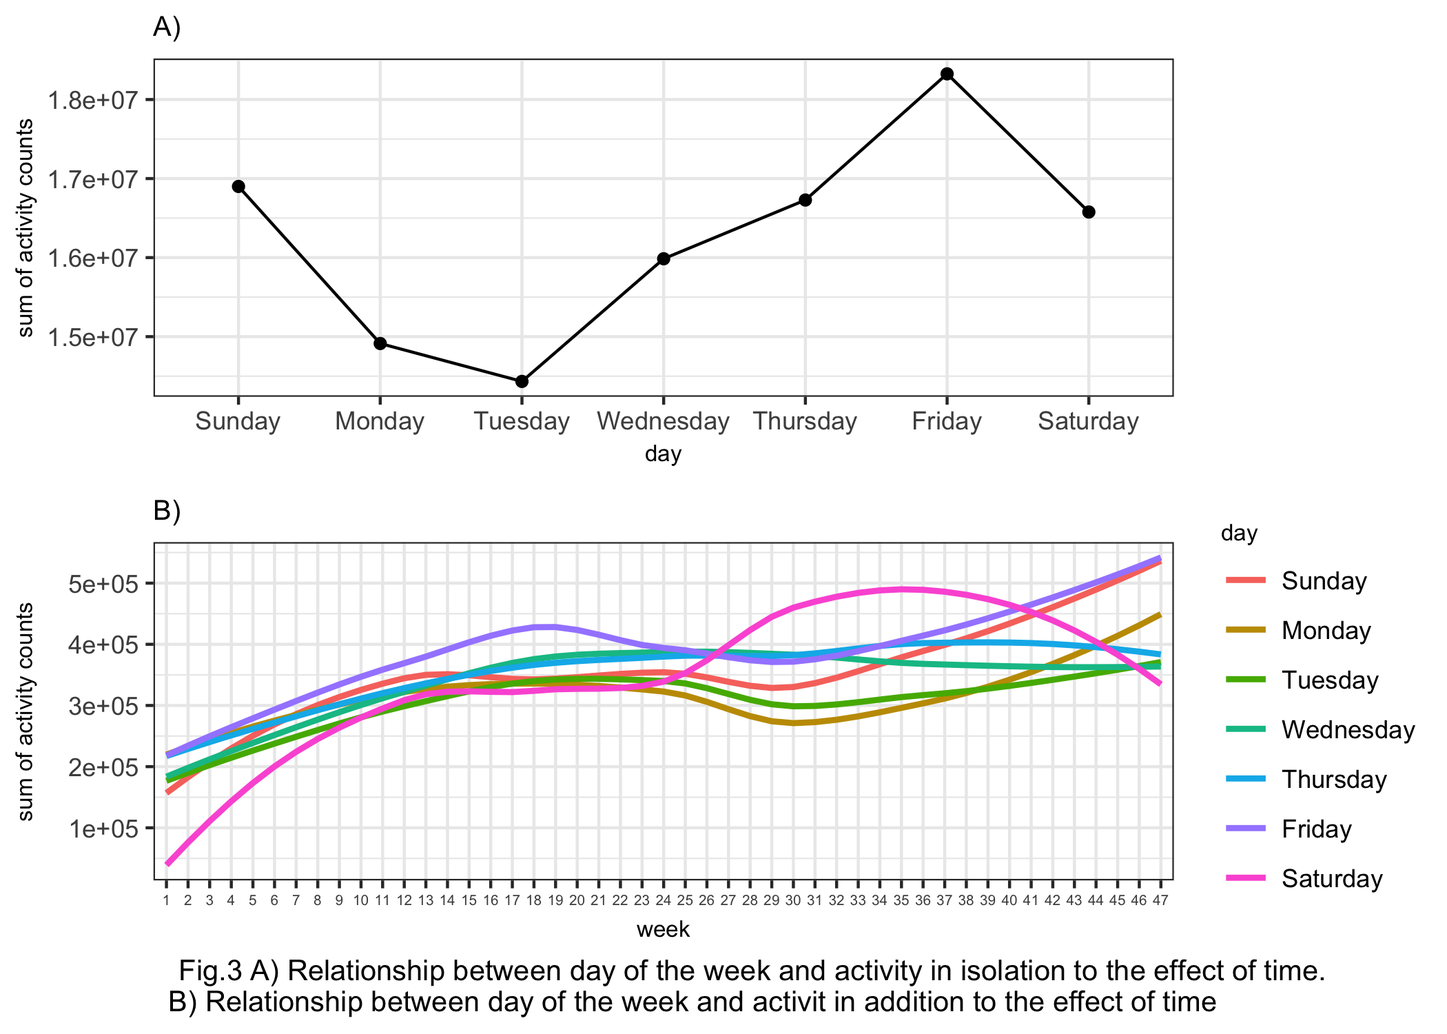
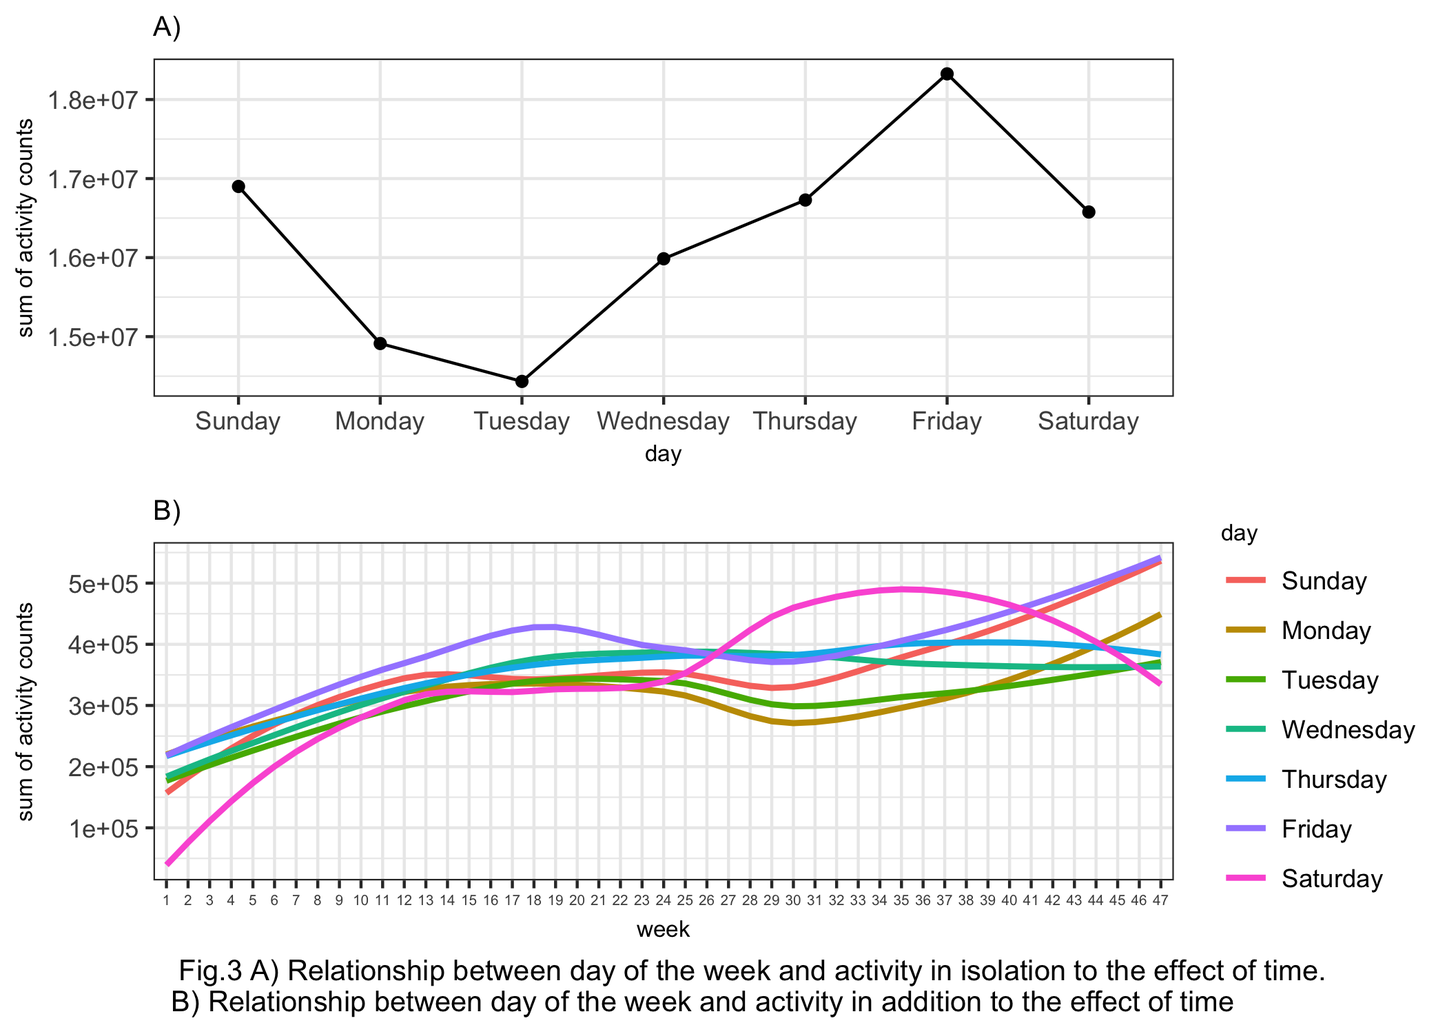
trying the plot_ly, but it doesn't seem to work in md file

Changed region(s): [[0.1238, 0.9507, 0.8667, 0.9813]]

diff --git a/p8105_mtp_gw2383.md b/p8105_mtp_gw2383.md
@@ -115,7 +115,7 @@ cross_min %>%
   labs(
     y = "sum of activity counts", 
     title = "B)", 
-    caption = "Fig.3 A) Relationship between day of the week and activity in isolation to the effect of time.\n B) Relationship between day of the week and activit in addition to the effect of time"
+    caption = "Fig.3 A) Relationship between day of the week and activity in isolation to the effect of time.\n B) Relationship between day of the week and activity in addition to the effect of time"
   ) +
   theme(
     axis.text.x = element_text(size = 5),
@@ -166,7 +166,7 @@ activity_df %>%
   geom_vline(xintercept = 7*60, col = "red") + # an vertical line at 7 o'clock
   geom_vline(xintercept = 23*60, col = "red") + # an vertical line at 23 o'clock
   labs(
-    caption = "Fig.4 24-hour activity \"profiles\" for each day"
+    caption = "Fig.4 heatmap for 24-hour activity \"profiles\" for each day"
   ) +
   theme(
     axis.text.y = element_text(size = 7),
@@ -178,7 +178,76 @@ activity_df %>%
 
 Here we can see that in general, the participant's avtive time is around `7:00 - 23:00`, and his inactive time is around `23:00 - 7:00`.
 
-day of week on 24-hour activity profile (day of the week effect)
+24-hour activity profile (time effect)
+
+``` r
+# activity_df %>% 
+#   group_by(week, act_time) %>% 
+#   summarise(sum_byweekday = sum(count)) %>% 
+#   ggplot(aes(x = act_time, y = sum_byweekday, group = week, color = week)) +
+#   geom_smooth(se = FALSE) +
+#   scale_x_discrete( # rename the x axis label
+#     breaks = paste("activity", (0:23)*60 + 1, sep = "_"), 
+#     labels = c(0:23), 
+#     name = "time/hour"
+#     ) +
+#   labs(
+#     y = "sum of activity counts",
+#     caption = "Fig.5 A) relationship between time and 24-hour activity profile"
+#   ) +
+#   theme(
+#     axis.text.y = element_text(size = 7),
+#     plot.caption = element_text(hjust = 0, size = 10)
+#   )
+# 
+# # heatmap
+# activity_df %>% 
+#   group_by(week, act_time) %>% 
+#   summarise(sum_byweek = mean(count)) %>% 
+#   mutate(sum_byweek = log10(sum_byweek)) %>% 
+#   ggplot(aes(x = act_time, y = week, fill = sum_byweek)) +
+#   geom_tile() +
+#   scale_fill_gradient(low = "white", high = "steelblue") +
+#   guides(fill = guide_legend(title = "log10(count)")) +
+#   scale_x_discrete( # rename the x axis label
+#     breaks = paste("activity", (0:23)*60 + 1, sep = "_"), 
+#     labels = c(0:23), 
+#     name = "time/hour"
+#     ) +
+#   labs(
+#     caption = "Fig.4 heatmap for 24-hour activity \"profiles\" for each day"
+#   ) +
+#   theme(
+#     axis.text.y = element_text(size = 7),
+#     plot.caption = element_text(hjust = 0, size = 10)
+#   )
+
+# 3D plot 
+count_time = activity_df %>% 
+  group_by(week, act_time) %>% 
+  summarise(sum_byweek = mean(count)) %>% 
+  mutate(hour = 0)
+
+for (i in c(0:23)) { # aggregate each hour's count
+  count_time$hour = count_time$hour + ifelse(count_time$act_time %in% paste("activity", (i*60+1):(i*60+60), sep = "_"), i, 0)
+}
+
+count_time = count_time %>% 
+  group_by(week, hour) %>% 
+  summarise(sum_byhour = sum(sum_byweek)) %>% 
+  spread(key = hour, value = sum_byhour) %>% 
+  group_by() %>% 
+  select(2:25) %>% 
+  as.matrix()
+plot_ly(z = ~count_time) %>% # use plot_ly
+  add_surface()
+```
+
+<!--html_preserve-->
+
+<script type="application/json" data-for="htmlwidget-9347caebb6c5d7c4181d">{"x":{"visdat":{"3ce424c55fd5":["function () ","plotlyVisDat"]},"cur_data":"3ce424c55fd5","attrs":{"3ce424c55fd5":{"z":{},"alpha_stroke":1,"sizes":[10,100],"spans":[1,20],"type":"surface","inherit":true}},"layout":{"margin":{"b":40,"l":60,"t":25,"r":10},"scene":{"zaxis":{"title":"count_time"}},"hovermode":"closest","showlegend":false,"legend":{"yanchor":"top","y":0.5}},"source":"A","config":{"modeBarButtonsToAdd":[{"name":"Collaborate","icon":{"width":1000,"ascent":500,"descent":-50,"path":"M487 375c7-10 9-23 5-36l-79-259c-3-12-11-23-22-31-11-8-22-12-35-12l-263 0c-15 0-29 5-43 15-13 10-23 23-28 37-5 13-5 25-1 37 0 0 0 3 1 7 1 5 1 8 1 11 0 2 0 4-1 6 0 3-1 5-1 6 1 2 2 4 3 6 1 2 2 4 4 6 2 3 4 5 5 7 5 7 9 16 13 26 4 10 7 19 9 26 0 2 0 5 0 9-1 4-1 6 0 8 0 2 2 5 4 8 3 3 5 5 5 7 4 6 8 15 12 26 4 11 7 19 7 26 1 1 0 4 0 9-1 4-1 7 0 8 1 2 3 5 6 8 4 4 6 6 6 7 4 5 8 13 13 24 4 11 7 20 7 28 1 1 0 4 0 7-1 3-1 6-1 7 0 2 1 4 3 6 1 1 3 4 5 6 2 3 3 5 5 6 1 2 3 5 4 9 2 3 3 7 5 10 1 3 2 6 4 10 2 4 4 7 6 9 2 3 4 5 7 7 3 2 7 3 11 3 3 0 8 0 13-1l0-1c7 2 12 2 14 2l218 0c14 0 25-5 32-16 8-10 10-23 6-37l-79-259c-7-22-13-37-20-43-7-7-19-10-37-10l-248 0c-5 0-9-2-11-5-2-3-2-7 0-12 4-13 18-20 41-20l264 0c5 0 10 2 16 5 5 3 8 6 10 11l85 282c2 5 2 10 2 17 7-3 13-7 17-13z m-304 0c-1-3-1-5 0-7 1-1 3-2 6-2l174 0c2 0 4 1 7 2 2 2 4 4 5 7l6 18c0 3 0 5-1 7-1 1-3 2-6 2l-173 0c-3 0-5-1-8-2-2-2-4-4-4-7z m-24-73c-1-3-1-5 0-7 2-2 3-2 6-2l174 0c2 0 5 0 7 2 3 2 4 4 5 7l6 18c1 2 0 5-1 6-1 2-3 3-5 3l-174 0c-3 0-5-1-7-3-3-1-4-4-5-6z"},"click":"function(gd) { \n        // is this being viewed in RStudio?\n        if (location.search == '?viewer_pane=1') {\n          alert('To learn about plotly for collaboration, visit:\\n https://cpsievert.github.io/plotly_book/plot-ly-for-collaboration.html');\n        } else {\n          window.open('https://cpsievert.github.io/plotly_book/plot-ly-for-collaboration.html', '_blank');\n        }\n      }"}],"cloud":false},"data":[{"colorbar":{"title":"count_time","ticklen":2,"len":0.5,"lenmode":"fraction","y":1,"yanchor":"top"},"colorscale":[["0","rgba(68,1,84,1)"],["0.0170893419249095","rgba(69,8,89,1)"],["0.0296106510601956","rgba(70,14,93,1)"],["0.0447516894205363","rgba(70,20,98,1)"],["0.062285029657417","rgba(71,26,104,1)"],["0.0811666494077981","rgba(72,31,110,1)"],["0.109334653915147","rgba(72,40,119,1)"],["0.139261810355098","rgba(70,49,124,1)"],["0.17163889102305","rgba(68,59,129,1)"],["0.226326998820249","rgba(62,75,137,1)"],["0.278747986001388","rgba(57,89,140,1)"],["0.322974532590868","rgba(51,101,142,1)"],["0.363087622718907","rgba(47,111,142,1)"],["0.399017231155388","rgba(44,119,142,1)"],["0.424089134659053","rgba(41,125,142,1)"],["0.448617147075624","rgba(38,131,142,1)"],["0.473596714802208","rgba(38,137,141,1)"],["0.494571946655621","rgba(37,143,140,1)"],["0.513583843026693","rgba(36,147,139,1)"],["0.536795226961867","rgba(33,153,138,1)"],["0.561658143012552","rgba(33,159,136,1)"],["0.592916041728604","rgba(41,166,132,1)"],["0.628719289266184","rgba(48,174,127,1)"],["0.701596668036241","rgba(75,190,112,1)"],["1","rgba(253,231,37,1)"]],"showscale":true,"z":[[974.428571428571,754.428571428572,518.571428571429,1183.42857142857,5981.85714285714,8058.57142857143,3324,7197.85714285714,22265.4285714286,12876.8571428571,11277.5714285714,15376.1428571429,17658.2857142857,16581.4285714286,18881.1428571429,22832.5714285714,17167.1428571429,19356.7142857143,21396.1428571428,21858.4285714286,23608.7142857143,17520,8952,1589],[2872.85714285714,1895.28571428572,2399.28571428571,1731.42857142857,671.714285714286,1763.85714285714,6034.14285714286,9771,21522.5714285714,25414.7142857143,14714.2857142857,12855.5714285714,18505.4285714286,14874.1428571429,16755.4285714286,14868.8571428571,15277.5714285714,14145,14874.2857142857,11382.2857142857,2439.28571428571,1813.28571428571,6348.57142857142,2823.85714285714],[60,60,60,60,60,60,60,60,60,181.142857142857,60,60,95.7142857142856,60,60,63,60,60,60,63,60,60,60,60],[216.571428571429,970.857142857143,222.285714285714,215.714285714286,884.428571428572,831.428571428571,883.285714285714,134.571428571428,1765.14285714286,4935.42857142857,4501.14285714286,9220.14285714284,2386.57142857143,3848.28571428572,7322.42857142857,5998.28571428571,7741,4952.42857142857,4243.71428571429,2042.57142857143,3205.14285714286,6672.57142857143,3466.42857142857,413.714285714286],[2707.85714285714,519.142857142857,1194,1041.85714285714,6342.71428571428,5551.71428571429,12967.5714285714,11422.5714285714,14000.1371942011,18227,15338,17360.1428571429,14974.1428571429,23280.8571428571,16269.8571428571,14799.4285714286,8272.42857142858,20438.4285714286,15201.1428571429,10547.4285714286,15430.2857142857,12288.5714285714,13747.8571428571,8289.42857142857],[2134.57142857143,2774.14285714286,721.714285714286,1417.57142857143,5084.14285714286,7571.71428571429,8961.57142857143,15938.4285714286,24479.2857142857,18767,17237.2857142857,21900.8571428571,23097.5714285714,19493.2857142857,16102,28430.2857142857,20643.4285714286,18493.8571428571,16725.8571428571,13739.4285714286,18815.1428571428,16491.4285714286,7875.71428571429,3895.57142857143],[6102.28571428571,903.857142857143,1648,3529.71428571429,1897.57142857143,2757.71428571429,5393,6292,15872.5714285714,16784.2857142857,22276.5714285714,22080.5714285714,21153,18335.1428571429,18254.5714285714,23135.1428571429,21079.1428571429,19175.8571428571,18386.8571428571,24840.1428571428,15219.7142857143,16115.2857142857,15094.4285714286,8928.99999999999],[1805.28571428572,796.000000000001,1567.85714285714,2467.85714285714,1980.71428571428,5144.14285714285,3766.14285714286,7519.28571428571,12510.2857142857,10891.4285714286,24193.8571428571,18621,20955.5714285714,19245.7142857143,21579.8571428571,25999.4285714286,18191.7142857143,16322.5714285714,22934.5714285714,19632,17619.8571428571,14743.5714285714,6130.28571428572,6835.85714285715],[3400.71428571429,3282.85714285714,2208.42857142857,1481.42857142857,2338.85714285714,3219,5764.28571428571,20000.8571428571,18315.8287526427,22430.4285714286,28326.4285714286,26381.5714285714,23930.7142857143,28273.4285714286,31823.5714285714,26917.7142857143,20952.1428571428,20003.1428571429,18182.4285714286,20194.1428571429,20888.5714285714,14032.1428571429,8174.14285714286,8084.85714285714],[3159.14285714286,2717.14285714286,8452.14285714286,5543.71428571429,2417.28571428572,2706.85714285714,4240,12442.2857142857,23011.5714285714,22966.5714285714,22767.7142857143,25536.4285714286,23551.8571428571,26113.5714285714,23229.5714285714,16136.1428571429,11865,14885.7142857143,21497.1428571429,29414,26851.7142857143,16710.4285714286,5819.42857142857,3103.42857142857],[1389.28571428571,833.714285714285,1518.85714285714,6053.57142857143,5403.14285714286,10609.5714285714,11884.2857142857,11230.2857142857,14065.7142857143,29791.7142857143,16229.2857142857,21479.5714285714,24562.4285714286,14460.2857142857,21910.7142857143,31464.5714285714,23479.1428571429,25293.8571428571,25635.5714285714,22664.8571428571,17065.4285714286,12875.8571428571,7714.28571428571,1830],[397.857142857143,684.285714285715,581,2213.42857142857,848.857142857144,2073.71428571428,3604,2826.71428571429,7932.14285714286,4592,5887.28571428571,9492.85714285714,6175.85714285714,6989.14285714285,6918.42857142857,5199.85714285714,5869.28571428571,6898.57142857142,6594.28571428571,5132.71428571429,6166.71428571428,4590.85714285714,2681,804.857142857143],[713.285714285715,1292,655.142857142858,2397.14285714286,1156.42857142857,2898.28571428571,8823.85714285714,14793.8571428571,9570.57142857143,15092,16108.1428571429,22476.1428571429,26541.4285714286,15100.7142857143,19204.7142857143,19063,13500.8571428571,11310.8571428571,14956.2857142857,23093.4285714286,20848.5714285714,12945.5714285714,10021.1428571428,3178],[4526.14285714286,1567,1089.14285714286,4391.71428571428,8638.42857142857,11477.4285714286,11719.4285714286,21145.2857142857,21334.5714285714,14380.1428571429,23326.5714285714,19656,23405.2857142857,18361.8571428571,23288.4285714286,21197.1428571429,20603.5714285714,20592.8571428571,38891.8571428571,34132.8571428571,25351.8571428571,13699.8571428572,6154.42857142857,4555.71428571429],[2984.28571428571,3950.57142857143,5218.28571428571,7913.28571428571,6892.14285714286,13174.4285714286,12172.7142857143,16208.8571428571,12183.7142857143,15699.1428571429,15524.1428571429,13639,17809.8571428571,14345.7142857143,21180.8571428571,24804.5714285714,19704.5714285714,19373.8571428571,27906.8571428571,26940.5714285714,23346.8571428571,13702.4285714286,3489.85714285714,678.714285714286],[2166.01587301587,1255.00634920635,2420.95873015873,4958.33968253968,4346.65714285714,4251.70476190476,5921.45714285714,12364.1968253968,18203.5756407787,26166.4463768116,21679,27028.5015873016,23741.7841269841,17121.8888888889,19566.7251803752,19829.7301587302,20115.1873015873,21098.726984127,17734.1523809524,20437.4761904762,28123.5174603175,26301.0349206349,12448.2793650794,9842.86349206349],[3736.85714285714,2393.71428571429,3968.71428571429,830.857142857143,2886.71428571429,7139.42857142857,12994.4285714286,26765.4285714286,20313.5714285714,27700.7142857143,30837.1428571428,33241.8571428571,26410,18812.2857142857,23009.5714285714,18009.1428571429,34914.8571428571,22943.7142857143,23471.8571428571,33519.5714285714,41326.4285714286,26190.1428571429,12133.4285714286,8123.57142857142],[3076.57142857143,1979.42857142857,1915.71428571429,1375.14285714286,4442.57142857143,6659.14285714286,12598.4285714286,19372.2857142857,17675.7142857143,21031.7142857143,30056.1428571429,21398.8571428571,24848,20133.7142857143,25412.1428571428,25598.8571428571,29310.1428571428,27782.1428571428,30319.4285714286,32135.7142857143,42826.1428571428,34304.5714285714,20805.2857142857,5644.42857142857],[3244,581.714285714286,426.142857142857,1619.57142857143,1568.42857142857,6203,6885.42857142857,7073.57142857143,12055.4285714286,18886.5714285714,20896.2857142857,18714.5714285714,21483.2857142857,16311.1428571429,17566.1428571429,15999.1428571428,16081,20837.7142857143,21305.4285714286,10096.8571428571,10486.7142857143,13156.5714285714,6142.57142857143,6646.57142857143],[814.428571428572,1118.85714285714,913.714285714286,1038.85714285714,3697.71428571429,11384,30476.8571428571,34393.2857142857,9331.42857142857,14647.8571428571,13591.8571428571,22999.4285714286,18496.4285714286,20600.8571428571,21453,21736,17727.4285714286,13932.2857142857,21457.1428571429,20368.2857142857,26560.8571428571,19814.4285714286,9610.57142857143,2784.28571428571],[1007.14285714286,2174.85714285714,1146.85714285714,2236.14285714286,6102.42857142857,5676.57142857143,3570.14285714286,11942.1428571429,22832.4285714286,21047.5714285714,17017.1428571429,23008.8571428571,24079.5714285714,21853.8571428571,17127.4285714286,24491.1428571429,18953.2857142857,15694.4285714286,21811,12599.2857142857,19297.7142857143,12697.8571428571,4936.28571428571,929.714285714286],[1022.85714285714,1351.57142857143,2780.28571428572,5193.71428571429,4607.57142857143,4930.42857142857,9739.85714285713,19179,28058.8861421524,26803.2857142857,18723.8571428571,21346,24744,21244.4285714286,24848.2857142857,20832,17823.1428571429,24641.5714285714,15497,15099.2857142857,19007.4285714286,13801.5714285714,9597.85714285715,4739],[966.857142857143,5041.42857142857,4310.42857142857,4666,2785.57142857143,3429.85714285714,7032.85714285714,9641.57142857143,26922.4285714286,25799,17730.1428571429,24562.1428571428,18946,19245.5714285714,22472.1428571428,15701.5714285714,16125.1428571429,25229.5714285714,22788.4285714286,30454.8571428571,28355.7142857143,25382.8571428571,14829.2857142857,6172.28571428571],[999.857142857143,2003.57142857143,1637,4437,2563.85714285714,3988.42857142857,9775.14285714286,19306.1428571429,27533.2857142857,24918,30842.8571428571,19882.8571428571,20314.5714285714,19704,16643.1428571429,18048,17489.8571428571,15025,16585.8571428571,16366.7142857143,18095.7142857143,13246.7142857143,6533.57142857143,4710.28571428571],[3489.14285714286,1790.57142857143,1546.57142857143,2766.28571428572,4839.57142857143,8976.14285714286,10548.4285714286,10928.5714285714,20816.8571428571,30922,23674.7142857143,28818,23556.4285714286,24551.1428571428,26824.8571428571,24937.8571428571,22089.7142857143,21879.8571428571,22682.5714285714,19112.5714285714,17504.8571428571,14107,8197.71428571429,2815.28571428571],[1556,1031.14285714286,2315.71428571428,3310,6022.85714285714,3531.57142857143,8694.14285714286,17300.4285714286,27253.1428571429,26061.7142857143,20760.2857142857,24482.2857142857,14250.5714285714,18027.5714285714,21634.7142857143,21784,19812.4285714286,20249.7142857143,14798.7142857143,17760.4285714286,27332.8571428571,17533.4285714286,8946.14285714286,8229.71428571428],[3092.85714285714,1663.85714285714,904.142857142858,3760,3242.28571428571,4207.14285714286,11575,10539.5714285714,10728.7142857143,16812.2857142857,23101.5714285714,23912.1428571429,27840.5714285714,26016.4285714286,21369.2857142857,19191.8571428571,22758,32509.4285714286,25329.2857142857,21790.2857142857,18481.1428571429,23752.1428571428,21143.4285714286,9905.57142857143],[1785.57142857143,1620.14285714286,1440,3256.14285714286,2585.57142857143,6363.85714285715,12781,29674,21608.1428571429,17953.2857142857,22283.1428571429,21016.2857142857,25466.7142857143,22526,21020.6331168831,34089,26548.4285714286,28849,25430.8571428571,17714.1428571429,20534.5714285714,18592.4285714286,10665.7142857143,2020.85714285714],[1295.42857142857,1700.28571428571,1822.71428571429,8043.71428571428,2877.28571428572,3672,5074.14285714286,19074.8571428571,27149.5714285714,20617.5714285714,22005.1428571429,29256.4285714286,30258.7142857143,22746.2857142857,24833.4285714286,16228.1428571429,18703.7142857143,23994.8571428571,18520.7142857143,15403.8571428571,19107.7142857143,11853.4285714286,5135.85714285714,6911.71428571429],[1245,331.428571428571,2076.85714285714,995.571428571428,7968.57142857144,10040.7142857143,21803.2857142857,18720.5714285714,17435.5714285714,17067,19895.4285714286,19509.8571428571,14127.4285714286,18969.5714285714,17572.1428571429,17183.1428571429,19421.4285714286,18112.1428571429,20072,23613.1428571428,14595.5714285714,17173.1428571429,15533.1428571429,6041.42857142857],[263.714285714286,1329.14285714286,445.857142857143,742.857142857143,3657.42857142857,1236.14285714286,792.428571428572,12696.8571428571,17337,8972.71428571428,12573,11978.1428571429,18116.7142857143,11776.2857142857,11885.8571428571,17500.8571428571,12211.5714285714,11924.7142857143,16218.1428571429,19500.8571428571,15880.7142857143,15296.5714285714,12093.4285714286,5668.42857142857],[6981.14285714286,4355.14285714286,636,1080.14285714286,2169.42857142857,2294,11983,13265.5714285714,21477.7142857143,15755.2857142857,20871.7142857143,35119.4285714286,16217.2857142857,22165.2857142857,22360.5714285714,19987.8571428571,34045.5714285714,21375.2857142857,23731.5714285714,21631.2857142857,24709.8571428571,22710.1428571428,11168.7142857143,10876.5714285714],[1523.71428571429,951.142857142857,1463.71428571429,3832.42857142857,9782.28571428571,7771.42857142857,9155,6653,17345.7142857143,19224.4285714286,15284,18950.5714285714,27795.1428571429,21425.8571428571,25570.2857142857,19961.4285714286,23848.4285714286,21799,26488.4285714286,21522.4285714286,21983.5714285714,17113,12380.5714285714,2710.85714285715],[3711.14285714286,2949.16770186335,1160.95652173913,2006.33850931677,4018.14906832298,8889.06211180125,11747.0062111801,13444.8043478261,21539.8788819876,23701.2888198758,24556.9161490683,27431.8571428571,21519.5590062112,20210.7080745342,18690.5869565217,17391.2111801242,23036.0031055901,22973.7608695652,19625.3043478261,18793.0217391304,13697.3850931677,12334.1925465839,9737.92546583851,6326.30124223602],[2022.01897860594,1412.49703243616,1673.92767425811,2458.38937198068,5023.17888198758,10346.4718426501,16817.0658385093,21193.5819185645,17533.925523471,21782.6047619048,22892.0931677019,20281.4363699103,21870.7872325742,19018.5907522429,19513.6910188845,19704.0500345066,20864.8084195997,20181.7611456177,21547.1399585921,22318.9047619048,20224.2317460317,17997.6063492063,12694.1365079365,5246.43492063492],[833.285714285715,2185.57142857143,5260,3528.14285714286,11717,7065.42857142857,5031.85714285715,9821.57142857142,17292.1428571429,26131,32151.1428571429,42212.5714285714,39188.7142857143,30485.2857142857,22718,26408.2857142857,24191,22256.5714285714,26530.8571428571,36835.8571428571,30426.5714285714,17132,9401.85714285714,5353],[12662.5714285714,4859.85714285714,3832.14285714286,1934.85714285714,7516.42857142857,14593.2857142857,14799.1428571429,19595,29929.2857142857,20468.1428571429,25280.1428571429,29557.4285714286,24775.5714285714,25008.2857142857,26455.1428571429,24734.5714285714,26278.7142857143,19031.1428571429,17134.1428571429,16512,28510.4285714286,25183.1428571428,21176.4285714286,15848.7142857143],[1152.42857142857,949.000000000001,1734.42857142857,3107.42857142857,6392.71428571428,9863,16743.7142857143,15642.5714285714,16550.2857142857,20770,29256.7142857143,22189.5714285714,20911.2857142857,22883.8571428571,24469.5714285714,25258,30912,32737.7142857143,31196.5714285714,23043.1428571429,20156.2857142857,11998.2857142857,12619.1428571429,2886.85714285714],[2231.57142857143,1245.71428571429,3556.42857142857,5868.85714285714,1895.28571428572,2959.42857142857,6460.71428571428,25319.8571428571,21691.2857142857,22318,16481,23967.5714285714,20697.8571428571,22219,17999.2857142857,23750.8571428571,22668.2857142857,23758.2857142857,22261.2857142857,25397.1428571429,23599,28753,11134.8571428571,2091.85714285714],[2180.28571428572,1824.57142857143,812.714285714286,4416.14285714286,5097.85714285714,7001.42857142857,5773,13344.8571428571,20837,22119.2857142857,30890.5714285714,32101.7142857143,28458,20500.2857142857,21003,33201.5714285714,34474.1428571429,39333.5714285714,24819.4285714286,23684.7142857143,22100.5714285714,17286.4285714286,17007,4775.14285714286],[1663.57142857143,1537.14285714286,1733.14285714286,2441.42857142857,6039.28571428572,8052.71428571429,11163.1428571429,7184,21385.7142857143,28928.9378881988,27698.8571428571,27660.5714285714,23163.7142857143,21534.4285714286,24665.8571428571,26567,21818.4285714286,25517,24524.5714285714,26548.7142857143,25263.5714285714,22641.7142857143,13536.5714285714,6464.85714285714],[7439.28571428571,1342.57142857143,1064,1569.71428571429,6375,6429,2502.85714285714,3236.57142857143,9335,24337.5714285714,25627.2857142857,27503.7142857143,18083.4285714286,18911.5714285714,23959,24052.1428571429,33761.1428571428,25871.7142857143,20220.2857142857,17527.7142857143,28587.7142857143,18637.4285714286,21304.4285714286,15032.8571428571],[5890.42857142857,3282.71428571429,1995.57142857143,3188.42857142857,5233.14285714286,7084.57142857143,9667.71428571428,18992,19911.2857142857,23061.7142857143,24238.8571428571,21154.7142857143,21969.1428571429,22995.4285714286,28755.7142857143,31883.4285714286,36397.1428571428,25669.2857142857,22591,25680.8571428571,36685.5714285714,20150.2857142857,20807,5192.57142857143],[9626.14285714286,5267.42857142857,3208.28571428572,2100.71428571429,3617,2413.85714285714,2912,10839.7142857143,14902.8571428571,16075.4285714286,24568.5714285714,33441.4285714286,24807,22146.5714285714,26768.7142857143,24081.8571428571,27276.2857142857,26517.8571428571,21669.2857142857,27054.5714285714,24008.2857142857,23089.5714285714,23867.2857142857,19659.4285714286],[794,1106.14285714286,1592.57142857143,3520.85714285714,3910.85714285714,4984.71428571429,8818.42857142857,18015.1428571429,26391.1428571428,20677.5714285714,19974.1428571428,19855,24768.7142857143,19054.8571428571,22490.1428571429,26236.4285714286,23934.1428571429,29244.7142857143,28856.7142857143,23130.1428571428,23449.2857142857,25117,8750.57142857143,3684],[3878.14285714286,1927.71428571428,2792.85714285714,4262,4481.28571428571,4726.28571428571,3916,20048.5714285714,18549.7142857143,20855,22258,20400.1428571429,27820.1428571428,29144.1428571429,32894.2857142857,25504.2857142857,25746.4285714286,29796.4285714286,23092.1428571428,42027,38074,23230,12007.8571428571,5221.57142857143],[2135.71428571429,2364.57142857143,2094.14285714286,1050.28571428571,2725,3901.42857142857,5763.85714285714,10924.7142857143,19418.5714285714,24311.2857142857,23849.5714285714,23672.5714285714,31253.5714285714,27941.8571428571,26372.5714285714,22988,32252,28916.7142857143,25907.8571428571,27730.4285714286,16181.7142857143,14889.7142857143,10894.4285714286,3397]],"type":"surface","frame":null}],"highlight":{"on":"plotly_click","persistent":false,"dynamic":false,"selectize":false,"opacityDim":0.2,"selected":{"opacity":1},"debounce":0},"base_url":"https://plot.ly"},"evals":["config.modeBarButtonsToAdd.0.click"],"jsHooks":[]}</script>
+<!--/html_preserve-->
+24-hour activity profile (day of the week effect)
 
 ``` r
 activity_df %>% 
@@ -193,7 +262,7 @@ activity_df %>%
     ) +
   labs(
     y = "sum of activity counts",
-    caption = "Fig.5 relationship between day of the week and 24-hour activity profile"
+    caption = "Fig.5 B) relationship between day of the week and 24-hour activity profile"
   ) +
   theme(
     axis.text.y = element_text(size = 7),
@@ -203,4 +272,6 @@ activity_df %>%
 
     ## `geom_smooth()` using method = 'gam' and formula 'y ~ s(x, bs = "cs")'
 
-![](p8105_mtp_gw2383_files/figure-markdown_github/unnamed-chunk-7-1.png)
+![](p8105_mtp_gw2383_files/figure-markdown_github/unnamed-chunk-8-1.png)
+
+Here we can see `Friday night` and `Sunday afternoon` are different from the other five days, the total activity counts are higher and have greater fluctuation.
